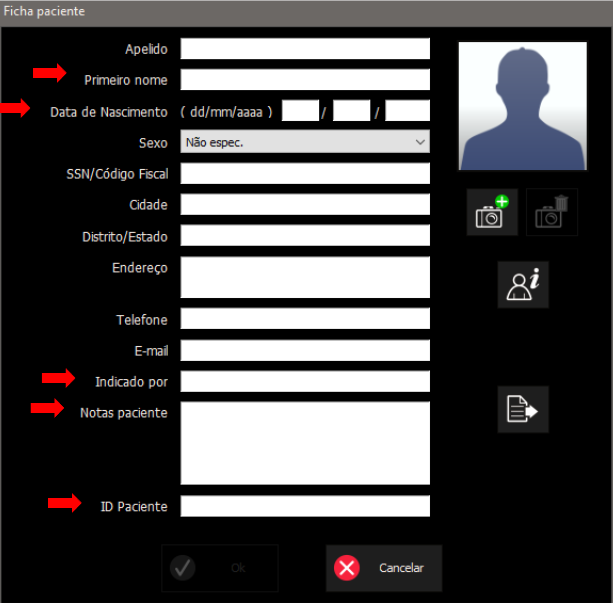
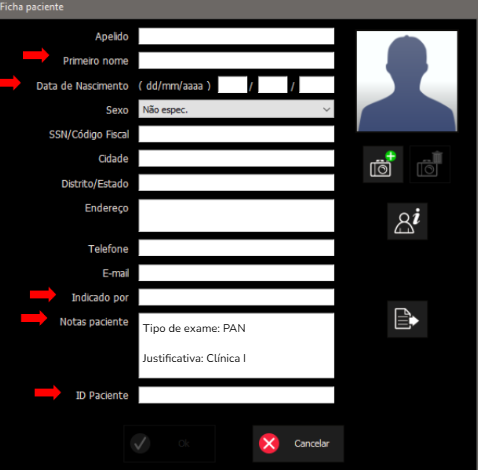
correcoes

diff --git a/src/chapters/tomografia/tomografia.md b/src/chapters/tomografia/tomografia.md
@@ -15,13 +15,26 @@ Abra o programa **NNT** e selecione a opção **"3D"**, representada pela imagem
 
 Selecione o exame desejado:
 
-![Selecionar tomografia](../../assets/tomografia/tipo_tomo.png)
+### Dentição
+
+- **Selecionar DENT:**  
+  ![](../../assets/fov/dent.png)
+
+### Maxilar
+
+- **Selecionar MAXILLO:**  
+  ![](../../assets/fov/maxilo.png)
+
+### Articulação Temporomandibular (TMJ)
+- **Selecionar TMJ:**  
+  ![](../../assets/fov/tmj.png)
+
 
 ---
 
 ## 3. Escolha da Região Anatômica
 
-Escolha entre as duas opções disponíveis:
+Agora, selecione a região anatômica a ser utilizada. O sistema disponibiliza duas opções:
 
 ### Região anatômica "Free"
 
@@ -46,9 +59,6 @@ Escolha entre as duas opções disponíveis:
   <summary>Clique para visualizar as variações do FOV</summary>
    
   ### Dentição
-
-  - **Dent (Geral):**  
-    ![](../../assets/fov/dent.png)
 
   - **Dent 4x4:**  
     ![Dent 4x4](../../assets/fov/dent_4x4.png)
@@ -81,9 +91,6 @@ Escolha entre as duas opções disponíveis:
 
   ### Maxilar
 
-  - **Maxilo (Geral):**  
-    ![](../../assets/fov/maxilo.png)
-
   - **Maxilo 13x10:**  
     ![](../../assets/fov/maxilo_13x10.png)
 
@@ -102,9 +109,6 @@ Escolha entre as duas opções disponíveis:
   ---
 
   ### Articulação Temporomandibular (TMJ)
-
-  - **TMJ (Geral):**  
-    ![](../../assets/fov/tmj.png)
 
   - **TMJ 4x4:**  
     ![](../../assets/fov/tmj_4x4.png)
@@ -165,7 +169,12 @@ Alinhe os lasers de referência conforme a imagem abaixo:
 
 #### Mandíbula
 - A base da mandíbula deve estar **paralela ao solo**.
-- O **PMS** também deve estar **perpendicular ao solo**.
+- O **plano mediano sagital PMS** também deve estar **perpendicular ao solo**.
+
+
+### Adequações conforme a solicitação clínica:
+Algumas situações exigem ajustes no procedimento padrão. As principais adequações necessárias conforme a solicitação clínica estão listadas na página abaixo:
+-  **[Adequações com especificidades da solicitação](../../chapters/especificidades/especificidades.md)**:
 
 ---
 

diff --git a/src/chapters/acolhimento/acolhimento.md b/src/chapters/acolhimento/acolhimento.md
@@ -15,23 +15,17 @@ Os passos a seguir devem ser seguidos para todos os pacientes, independentemente
 
 ---
 
-## 1. Preenchimento tabela **Planilha de Exames 2025**
+## 1. Preenchimento tabela **Planilha de Exames**
 
-- Criar um ID sequencial, com base no último ID utilizado para o tipo de exame correspondente (último ID + 1).
-- Preencher os seguintes campos obrigatórios:
-  - ID
-  - Nome Completo
-  - Data de Nascimento
-  - Origem (Triagem, Prefeitura POA, Prefeitura Viamão)
+- No computador acolhimento do Serviço de Radiologia, crie um novo registro na tabela **Planilha de Exames**;
+- Crie um ID sequencial, com base no último ID utilizado para o tipo de exame correspondente (último ID + 1).
 
 ---
-
 ## 2. Preenchimento no software NNT
 
 A seguir estão as orientações para preenchimento da ficha do paciente no software NNT.
 
 ![Tela de preenchimento do paciente](../../assets/nnt_dados.png)
-
 
 ### Campos obrigatórios e como preenchê-los
 
@@ -55,19 +49,21 @@ Selecionar conforme a origem do paciente:
 
 #### Notas paciente
 Registrar os exames solicitados:
-- TC  
-- PAN  
-- Tele Frontal  
-- Tele Lateral  
-- Mão e Punho 
-- Outras técnicas extrabucais: *Waters, Lateral Oblíqua*  
+
+- **Tipo de exame:**
+  - TC  
+  - PAN  
+  - Tele Frontal  
+  - Tele Lateral  
+  - Mão e Punho 
+  - Outras técnicas extrabucais: *Waters, Lateral Oblíqua*  
 
 Registrar a justificativa:
 - **Justificativa:** incluir a razão do exame, se aplicável
 
 #### ID Paciente
-- Informar o número de identificação que consta na **planilha de registro Excel** do acolhimento do Serviço de Radiologia.
+- Informar o ID criado no passo 1, na tabela **Planilha de Exames** do acolhimento do Serviço de Radiologia.
 
 ---
 
-Após preencher todos os campos, clique em **OK** para salvar ou **Cancelar** para descartar as alterações.
+Após preencher todos os campos, clique em **OK** para salvar ou **Cancelar** para descartar as alterações. Prossiga para a [Aquisição de exames](./chapters/aquisicao/aquisicao.md).

diff --git a/src/chapters/especificidades/especificidades.md b/src/chapters/especificidades/especificidades.md
@@ -1,0 +1,30 @@
+# Adequações com Especificidades da Solicitação
+
+Algumas situações exigem ajustes no procedimento padrão. Abaixo, listamos as principais adequações necessárias conforme a solicitação clínica:
+
+---
+
+## Pacientes Edêntulos
+
+- Fixar o dispositivo de isopor no mordedor para garantir estabilidade durante a aquisição.
+
+---
+
+## Análise de Mucosa (Gengiva)
+
+- Realizar o afastamento dos lábios e bochechas com **espandex** para melhor visualização das estruturas moles.
+
+---
+
+## Planejamento de Facetas
+
+- Realizar o afastamento dos lábios e bochechas utilizando **espandex ou algodão**, conforme o protocolo ou disponibilidade.
+- Garantir que toda a área estética anterior esteja visível e livre de interferências.
+
+---
+
+## Tomografia de Guia Cirúrgica
+
+- Posicionar o guia cirúrgico corretamente na cavidade bucal antes da aquisição.
+- Verificar o encaixe adequado e estabilidade do guia.
+- Confirmar que a tomografia abrange todas as áreas de interesse para o planejamento cirúrgico.

diff --git a/src/SUMMARY.md b/src/SUMMARY.md
@@ -5,4 +5,5 @@
 3. [Aquisição de exames](./chapters/aquisicao/aquisicao.md)
     - [Tomografia](./chapters/tomografia/tomografia.md)
 4. [Exportação de exames](./chapters/exportacao/exportacao.md)
+5. [Adequações com especificidades da solicitação](./chapters/especificidades/especificidades.md)
    
